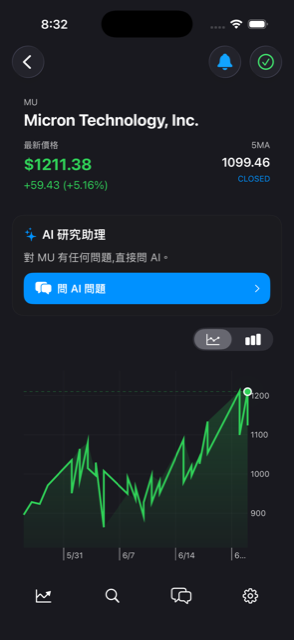
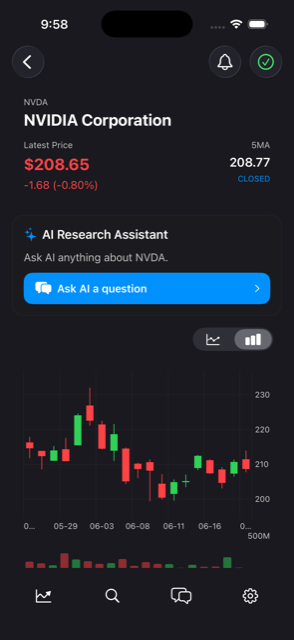
Update ranking & NVDA detail screenshots (English UI); bump v=3

diff --git a/index.html b/index.html
@@ -319,7 +319,7 @@ var hch=sb()+'<div class="hd"><h4>SMTC</h4></div><div class="chat"><div class="b
 
 // ---- scroll-pinned stage engine ----
 var shot=function(f){return '<img src="'+f+'" style="width:100%;height:100%;object-fit:cover;display:block">';};
-var SCREENS=[shot('assets/shot-list.png?v=2'),shot('assets/shot-rank.png?v=2'),shot('assets/shot-detail.png?v=2'),shot('assets/shot-chat.png?v=2')];
+var SCREENS=[shot('assets/shot-list.png?v=3'),shot('assets/shot-rank.png?v=3'),shot('assets/shot-detail.png?v=3'),shot('assets/shot-chat.png?v=3')];
 var CAPS=[
  {e:"Your watchlist",t:'<span class="grad">Watchlist,</span><span class="grad">alive.</span>',d:"Live sparklines and momentum colors. One tap to AI-analyze your whole list."},
  {e:"AI Ranking",t:'<span class="grad">Smart</span><span class="grad">Ranking.</span>',d:"A daily machine-learning ranking by real fundamentals, technicals and money flow."},